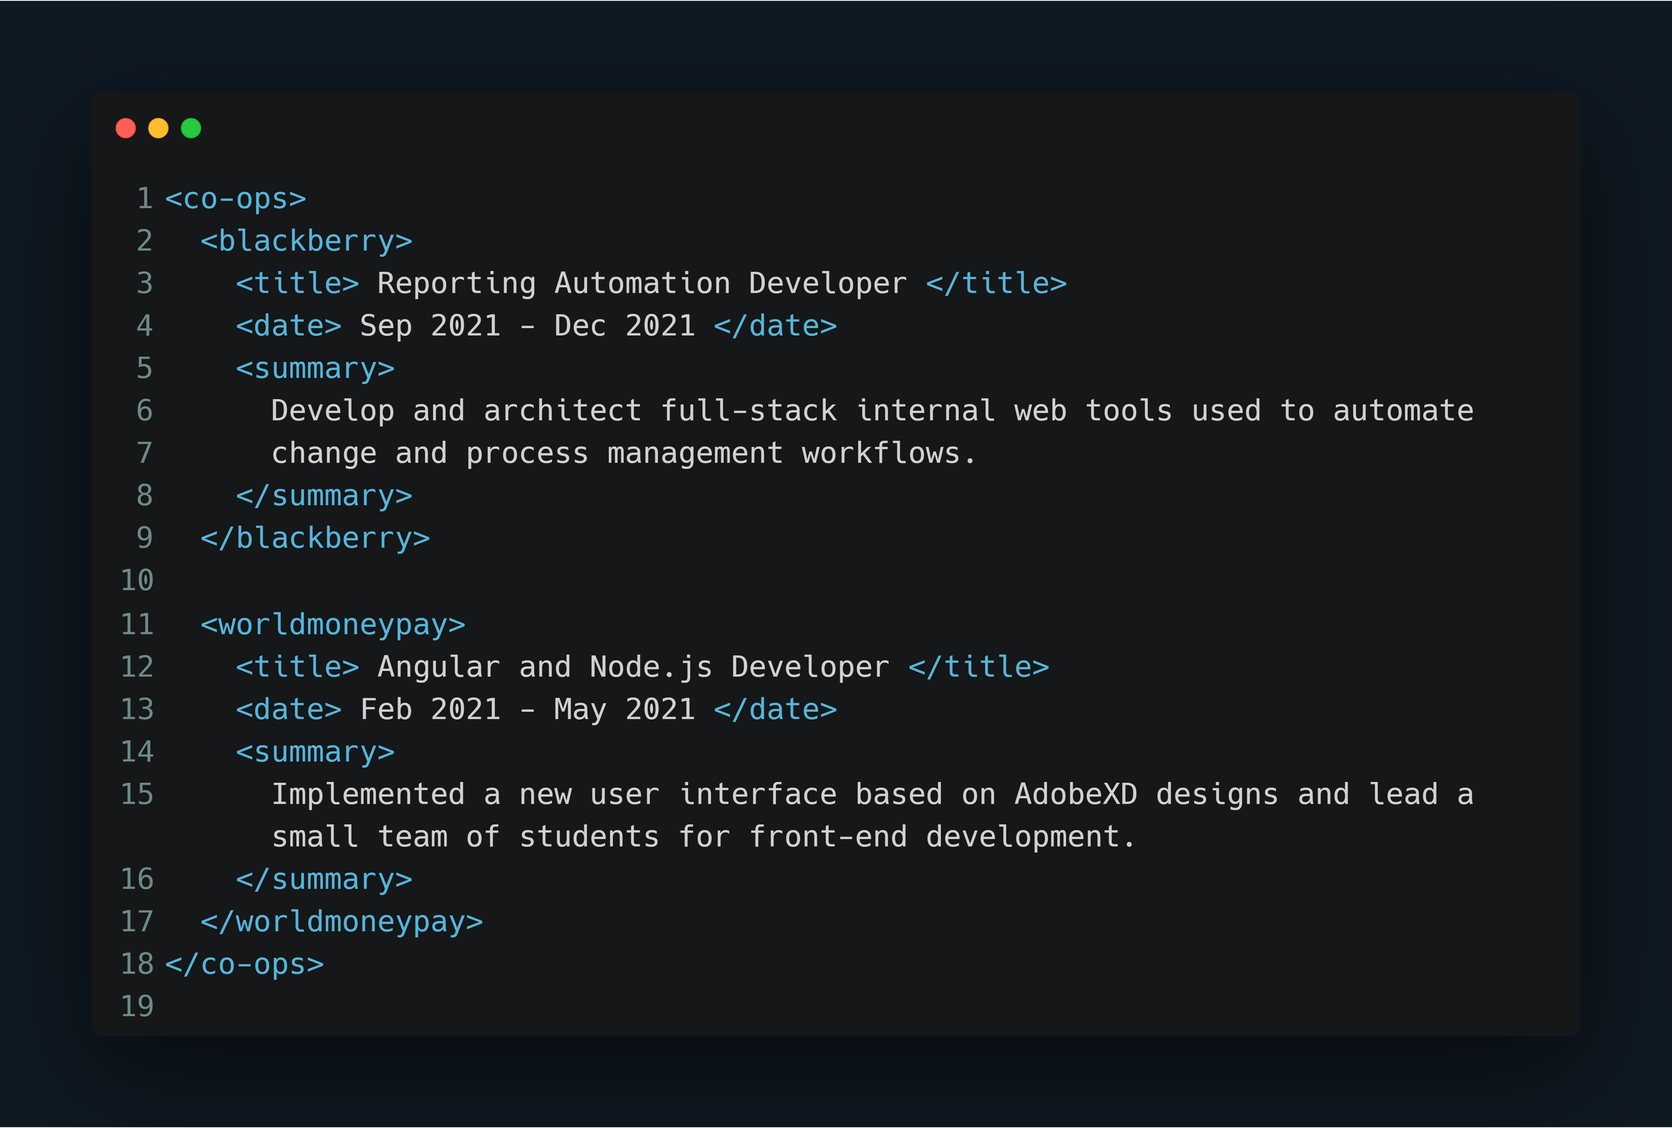
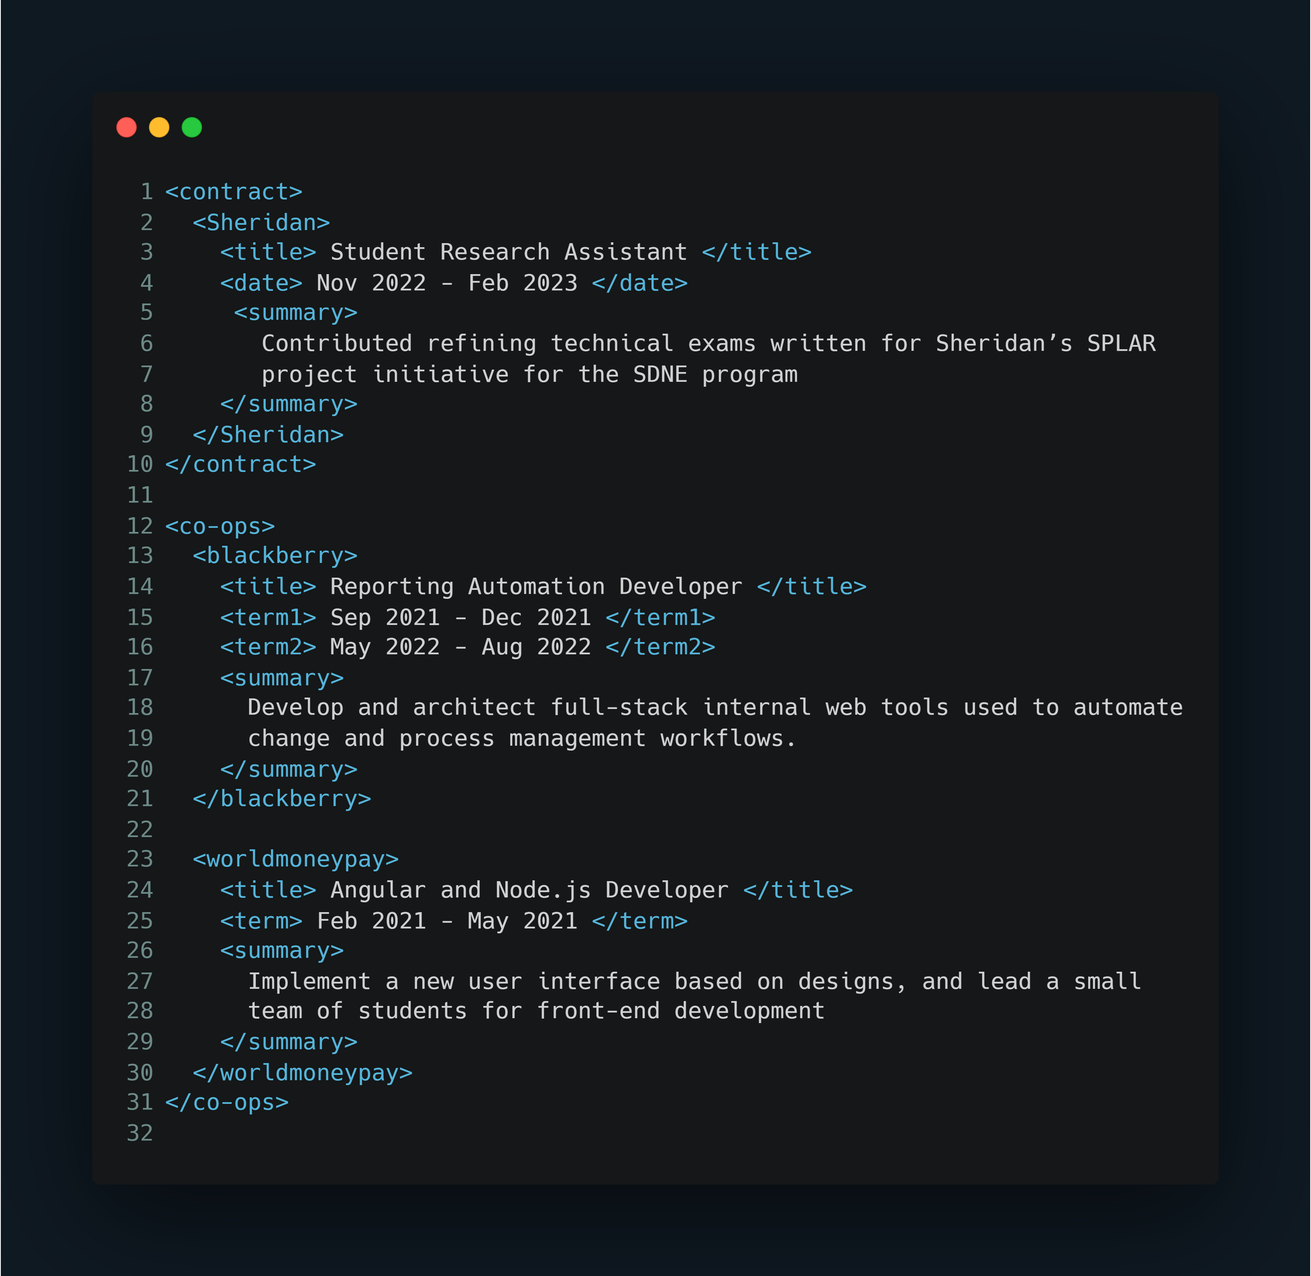
devpost on social bar, update experience, bug fix

diff --git a/index.html b/index.html
@@ -43,7 +43,7 @@ window.addEventListener('load', function() {
                     <a class="scroll" id="experience">Experience</a>
                     <a class="scroll" id="about">About</a>
                     <a class="scroll" id="contact">Contact</a>
-                    <a href="https://firebasestorage.googleapis.com/v0/b/auth-dev-ff796.appspot.com/o/files%2FouGePWcAQZMqy6DjSGzlQyq2ZZq2%2FNicolas_DeLuca_resume.docx?alt=media&token=d6b97201-c085-4764-ae88-4360cfa20cdf">Resume <i class="fa fa-download"></i></a>
+                    <a href="/resume.html">Resume <i class="fa fa-file-pdf-o"></i></a>
                 </div>
                 <a href="javascript:void(0);" class="icon" onclick="toggleNav()">
                     <i class="fa fa-bars"></i>
@@ -61,13 +61,23 @@ window.addEventListener('load', function() {
                 <i class="fa fa-square fa-stack-1x outside"></i>
                 <i class="fa fa-linkedin-square fa-stack-1x inside"></i>
             </a>
+ 
+            <a target="_blank" class="devpost" href="https://devpost.com/NickDeLu?ref_content=user-portfolio&ref_feature=portfolio&ref_medium=global-nav">
+                <i class="fa fa-square fa-stack-1x outside" style="z-index: -1;"></i>
+                <svg xmlns="http://www.w3.org/2000/svg" xmlns:xlink="http://www.w3.org/1999/xlink" version="1.1" id="Layer_1" x="0px" y="0px" viewBox="0 0 280.3 242" enable-background="new 0 0 280.3 242" xml:space="preserve">
+                    <g id="XMLID_1_">
+                        <path id="XMLID_6_" d="M133.7,76H118v90h14.7c30.9,0,45.1-18.1,45.1-45C177.8,90.9,164.9,76,133.7,76z"/>
+                        <path id="XMLID_9_" d="M210.2,0H70.1L0,121l70.1,121h140.1l70.1-121L210.2,0z M132.7,195H89V47h45.8c42.1,0,73.3,20.1,73.3,74   C208.1,172.8,170.6,195,132.7,195z"/>
+                    </g>
+                    </svg>
+            </a>
         </div>
         <section class="landing" id="top">
             <div id="particles-js">
                 <img class="landing-bg" src="/img/background.webp?v=2">
                 <div class="center-container" >
                     <div id="title">
-                        <h1 class="title">Nicolas <span style="white-space: nowrap;">De Luca</span></h1>
+                        <h1 class="title">Nicolas <span style="white-space: nowrap;font-family: Open Sans, sans-">De Luca</span></h1>
                         <h2 class="subtitle" style="box-shadow:unset;">Full Stack Developer</h2>
                     </div>
                     <div class="scroll cta" id="cta">Lets Connect</div>
@@ -311,11 +321,12 @@ window.addEventListener('load', function() {
                 <div class="div">&lt;/co-ops&gt;</div>
             </div> -->
             <div style="text-align:center;">
-            <!-- <iframe
-            src="https://carbon.now.sh/embed?bg=rgba%2815%2C25%2C34%2C1%29&t=seti&wt=none&l=auto&width=680&ds=true&dsyoff=20px&dsblur=68px&wc=true&wa=true&pv=56px&ph=56px&ln=true&fl=1&fm=Hack&fs=18px&lh=145%25&si=false&es=4x&wm=false&code=%253Cco-ops%253E%250A%2520%2520%253Cblackberry%253E%250A%2520%2520%2520%2520%253Ctitle%253E%2520Reporting%2520Automation%2520Developer%2520%253C%252Ftitle%253E%250A%2520%2520%2520%2520%253Cdate%253E%2520Sep%25202021%2520-%2520Dec%25202021%2520%253C%252Fdate%253E%250A%2520%2520%2520%2520%253Csummary%253E%250A%2520%2520%2520%2520%2520%2520Develop%2520and%2520architect%2520full-stack%2520internal%2520web%2520tools%2520used%2520to%2520automate%250A%2520%2520%2520%2520%2520%2520change%2520and%2520process%2520management%2520workflows.%250A%2520%2520%2520%2520%253C%252Fsummary%253E%250A%2520%2520%253C%252Fblackberry%253E%250A%250A%2520%2520%253Cworldmoneypay%253E%250A%2520%2520%2520%2520%253Ctitle%253E%2520Angular%2520and%2520Node.js%2520Developer%2520%253C%252Ftitle%253E%250A%2520%2520%2520%2520%253Cdate%253E%2520Feb%25202021%2520-%2520May%25202021%2520%253C%252Fdate%253E%250A%2520%2520%2520%2520%253Csummary%253E%250A%2520%2520%2520%2520%2520%2520Implemented%2520a%2520new%2520user%2520interface%2520based%2520on%2520AdobeXD%2520designs%2520and%2520lead%2520a%2520%2509%2509%2520%2520small%2520team%2520of%2520students%2520for%2520front-end%2520development.%250A%2520%2520%2520%2520%253C%252Fsummary%253E%250A%2520%2520%253C%252Fworldmoneypay%253E%250A%253C%252Fco-ops%253E%250A"
-            style="width: 1024px; height: 691px; border:0; transform: scale(1); overflow:hidden;"
-            sandbox="allow-scripts allow-same-origin">
-            </iframe> -->
+                <!-- <iframe
+                src="https://carbon.now.sh/embed?bg=rgba%2815%2C25%2C34%2C1%29&t=seti&wt=none&l=htmlmixed&width=680&ds=true&dsyoff=20px&dsblur=68px&wc=true&wa=true&pv=56px&ph=56px&ln=true&fl=1&fm=Hack&fs=14px&lh=133%25&si=false&es=2x&wm=false&code=%253Ccontract%253E%250A%2520%2520%253CSheridan%253E%250A%2520%2520%2520%2520%253Ctitle%253E%2520Student%2520Research%2520Assistant%2520%253C%252Ftitle%253E%250A%2520%2520%2520%2520%253Cdate%253E%2520Nov%25202022%2520-%2520Feb%25202023%2520%253C%252Fdate%253E%250A%2520%2520%2520%2520%2520%253Csummary%253E%250A%2520%2520%2520%2520%2520%2520%2520Contributed%2520refining%2520technical%2520exams%2520written%2520for%2520Sheridan%25E2%2580%2599s%2520SPLAR%2520%250A%2520%2520%2520%2520%2520%2520%2520project%2520initiative%2520for%2520the%2520SDNE%2520program%250A%2520%2520%2520%2520%253C%252Fsummary%253E%250A%2520%2520%253C%252FSheridan%253E%250A%253C%252Fcontract%253E%250A%250A%253Cco-ops%253E%250A%2520%2520%253Cblackberry%253E%250A%2520%2520%2520%2520%253Ctitle%253E%2520Reporting%2520Automation%2520Developer%2520%253C%252Ftitle%253E%250A%2520%2520%2520%2520%253Cterm1%253E%2520Sep%25202021%2520-%2520Dec%25202021%2520%253C%252Fterm1%253E%250A%2520%2520%2520%2520%253Cterm2%253E%2520May%25202022%2520-%2520Aug%25202022%2520%253C%252Fterm2%253E%250A%2520%2520%2520%2520%253Csummary%253E%250A%2520%2520%2520%2520%2520%2520Develop%2520and%2520architect%2520full-stack%2520internal%2520web%2520tools%2520used%2520to%2520automate%250A%2520%2520%2520%2520%2520%2520change%2520and%2520process%2520management%2520workflows.%250A%2520%2520%2520%2520%253C%252Fsummary%253E%250A%2520%2520%253C%252Fblackberry%253E%250A%2520%2520%250A%2520%2520%253Cworldmoneypay%253E%250A%2520%2520%2520%2520%253Ctitle%253E%2520Angular%2520and%2520Node.js%2520Developer%2520%253C%252Ftitle%253E%250A%2520%2520%2520%2520%253Cterm%253E%2520Feb%25202021%2520-%2520May%25202021%2520%253C%252Fterm%253E%250A%2520%2520%2520%2520%253Csummary%253E%250A%2520%2520%2520%2520%2520%2520Implement%2520a%2520new%2520user%2520interface%2520based%2520on%2520designs%252C%2520and%2520lead%2520a%2520small%2520%250A%2520%2520%2520%2520%2520%2520team%2520of%2520students%2520for%2520front-end%2520development%250A%2520%2520%2520%2520%253C%252Fsummary%253E%250A%2520%2520%253C%252Fworldmoneypay%253E%250A%253C%252Fco-ops%253E%250A"
+                style="width: 786px; height: 765px; border:0; transform: scale(1); overflow:hidden; width:100%;"
+                sandbox="allow-scripts allow-same-origin">
+              </iframe> -->
+
             <img src="/img/experience.png" style="width:100%; max-width: 1300px;">
             </div>
 
@@ -327,7 +338,7 @@ window.addEventListener('load', function() {
             <div class="aboutme">
                 <div class="div">&lt;dev&gt;</div>
                     <div class="indent">
-                        <div class="div">&lt;name&gt; <i style="color:white;">Nick De Luca</i> &lt;/name&gt;</div><br>
+                        <div class="div">&lt;name&gt; <i style="color:white;">Nicolas De Luca</i> &lt;/name&gt;</div><br>
                         <div class="div">&lt;edu&gt; <i style="color:white;">Sheridan College</i> &lt;/edu&gt;</div><br>
                         <div class="div">&lt;intro&gt;</div>
                         <div class="div indent"><div style="color:white;">Hi! My name is Nick. I'm a full stack developer and I am the type of programmer that is addicted to those "ahaaa" moments when you click run and it works!</div></div>

diff --git a/js/index.js b/js/index.js
@@ -1,1 +1,77 @@
-function toggleNav(){var e=document.getElementById("myTopnav");e.classList.contains("responsive")?e.classList.remove("responsive"):e.className+=" responsive"}window.addEventListener("DOMContentLoaded",e=>{var o=!1;$(".container").on("scroll",function(){1e3<=document.getElementsByClassName("container")[0].scrollTop&&!o&&(o=!0,$("#myTopnav").addClass("scroll-nav")),document.getElementsByClassName("container")[0].scrollTop<1e3&&o&&(o=!1,console.log("ey"),$("#myTopnav").removeClass("scroll-nav"))}),$("#maleglow").fadeOut(),$("#femaleglow").fadeOut();var t=$("#plug").detach(),n=document.getElementById("myTopnav"),a=document.getElementsByClassName("scroll");for(i=0;i<a.length;i++){var l=a[i];l.classList.contains("cta")&&$(".cta").on("click",()=>{$("#plug-place").after(t),setTimeout(function(){document.querySelector(".show-plug").scrollIntoView({behavior:"smooth"})},0),setTimeout(function(){$("#male").animate({left:"+=68",bottom:"+=68",opacity:1},800),$("#female").animate({right:"+=71",top:"+=68",opacity:1},800,function(){$("#maleglow").fadeIn(300),$("#femaleglow").fadeIn(300),$("#male").animate({opacity:0},1e3),$("#female").animate({opacity:0},1e3)})},600),setTimeout(function(){document.querySelector(".contact").scrollIntoView({behavior:"smooth"})},2e3),setTimeout(function(){$("#female").removeAttr("style"),$("#male").removeAttr("style"),$("#maleglow").fadeOut(300),$("#femaleglow").fadeOut(300),$("#plug").detach()},3e3),n.classList.remove("responsive")}),$("#logo").on("click",function(){document.querySelector(".landing").scrollIntoView({behavior:"smooth"})}),l.addEventListener("click",function(e){document.querySelector("."+e.target.id).scrollIntoView({behavior:"smooth"}),n.classList.remove("responsive")})}}),$(function(){});
+function toggleNav() {
+    var e = document.getElementById("myTopnav");
+    e.classList.contains("responsive")
+        ? e.classList.remove("responsive")
+        : (e.className += " responsive");
+}
+window.addEventListener("DOMContentLoaded", (e) => {
+    var o = !1;
+    $(".container").on("scroll", function () {
+        1e3 <= document.getElementsByClassName("container")[0].scrollTop &&
+            !o &&
+            ((o = !0), $("#myTopnav").addClass("scroll-nav")),
+            document.getElementsByClassName("container")[0].scrollTop < 1e3 &&
+            o &&
+            ((o = !1), console.log("ey"), $("#myTopnav").removeClass("scroll-nav"));
+    }),
+        $("#maleglow").fadeOut(),
+        $("#femaleglow").fadeOut();
+    var t = $("#plug").detach(),
+        n = document.getElementById("myTopnav"),
+        a = document.getElementsByClassName("scroll");
+    for (i = 0; i < a.length; i++) {
+        var l = a[i];
+        l.classList.contains("cta") &&
+            $(".cta").on("click", () => {
+                $("#container").css("scroll-snap-type", "y mandatory")
+                $("#plug-place").after(t),
+                    setTimeout(function () {
+                        document
+                            .querySelector(".show-plug")
+                            .scrollIntoView({ behavior: "smooth" });
+                    }, 0),
+                    setTimeout(function () {
+                        $("#male").animate(
+                            { left: "+=68", bottom: "+=68", opacity: 1 },
+                            800
+                        ),
+                            $("#female").animate(
+                                { right: "+=71", top: "+=68", opacity: 1 },
+                                800,
+                                function () {
+                                    $("#maleglow").fadeIn(300),
+                                        $("#femaleglow").fadeIn(300),
+                                        $("#male").animate({ opacity: 0 }, 1e3),
+                                        $("#female").animate({ opacity: 0 }, 1e3);
+                                }
+                            );
+                    }, 600),
+                    setTimeout(function () {
+                        document
+                            .querySelector(".contact")
+                            .scrollIntoView({ behavior: "smooth" });
+                        $("#container").css("scroll-snap-type", "unset")
+                    }, 2e3),
+                    setTimeout(function () {
+                        $("#female").removeAttr("style"),
+                            $("#male").removeAttr("style"),
+                            $("#maleglow").fadeOut(300),
+                            $("#femaleglow").fadeOut(300),
+                            $("#plug").detach();
+                    }, 3e3),
+                    n.classList.remove("responsive");
+            }),
+            $("#logo").on("click", function () {
+                document
+                    .querySelector(".landing")
+                    .scrollIntoView({ behavior: "smooth" });
+            }),
+            l.addEventListener("click", function (e) {
+                document
+                    .querySelector("." + e.target.id)
+                    .scrollIntoView({ behavior: "smooth" }),
+                    n.classList.remove("responsive");
+            });
+    }
+}),
+    $(function () { });

diff --git a/resume.html b/resume.html
@@ -1,0 +1,58 @@
+<!DOCTYPE html>
+<html lang="en">
+<head>
+    <meta charset="UTF-8">
+    <meta http-equiv="X-UA-Compatible" content="IE=edge">
+    <meta name="viewport" content="width=device-width, initial-scale=1.0">
+    <link rel="stylesheet" href="./css/styles.css?v=1">
+    <link rel="icon" type="image/x-icon" href="/img/favicon.ico">
+    <link rel="stylesheet" href="https://cdnjs.cloudflare.com/ajax/libs/font-awesome/4.7.0/css/font-awesome.min.css">
+    <title>Resume</title>
+</head>
+<body>
+    <div id="container" class="container">
+        <header>
+
+            <nav class="topnav" id="myTopnav">
+                <img id="logo" class ="logo" src="img/Logo.PNG" onclick="window.history.back(); return false;">
+                <div class='nav-container'>
+                    <a class="scroll" href="#" onclick="window.history.back(); return false;"> <i class="fa fa-arrow-left"></i> &nbsp;Back</a>
+
+                </div>
+                <a href="javascript:void(0);" class="icon" onclick="toggleNav()">
+                    <i class="fa fa-bars"></i>
+                </a>
+                
+            </nav>
+        </header>
+        <div class="socialbar">
+            <a target="_blank" class="github" href="https://github.com/NickDeLu">
+                <i class="fa fa-square fa-stack-1x outside"></i>
+                <i class="fa fa-github-square fa-stack-1x inside"></i>
+            </a>
+            <a target="_blank" class="linkedin" href="https://www.linkedin.com/in/nickdelu/">
+                <i class="fa fa-square fa-stack-1x outside"></i>
+                <i class="fa fa-linkedin-square fa-stack-1x inside"></i>
+            </a>
+ 
+            <a target="_blank" class="devpost" href="https://devpost.com/NickDeLu?ref_content=user-portfolio&ref_feature=portfolio&ref_medium=global-nav">
+                <i class="fa fa-square fa-stack-1x outside" style="z-index: -1;"></i>
+                <svg xmlns="http://www.w3.org/2000/svg" xmlns:xlink="http://www.w3.org/1999/xlink" version="1.1" id="Layer_1" x="0px" y="0px" viewBox="0 0 280.3 242" enable-background="new 0 0 280.3 242" xml:space="preserve">
+                    <g id="XMLID_1_">
+                        <path id="XMLID_6_" d="M133.7,76H118v90h14.7c30.9,0,45.1-18.1,45.1-45C177.8,90.9,164.9,76,133.7,76z"/>
+                        <path id="XMLID_9_" d="M210.2,0H70.1L0,121l70.1,121h140.1l70.1-121L210.2,0z M132.7,195H89V47h45.8c42.1,0,73.3,20.1,73.3,74   C208.1,172.8,170.6,195,132.7,195z"/>
+                    </g>
+                    </svg>
+            </a>
+        </div>
+    <section style="width: 100%; max-width:900px; margin: 100px auto;">
+        <iframe
+          src="http://drive.google.com/file/d/1UMKvlKUnLSJywsXKal7lfaytEcsR6477/preview"
+          width="100%"
+          height="1100px"
+        >
+        </iframe>
+    </section>
+</div>
+</body>
+</html>

diff --git a/css/styles.css b/css/styles.css
@@ -35,6 +35,7 @@ body {
   width: 100vw;
   height: 100vh;
   overflow-y: scroll;
+  scroll-behavior: smooth;
 }
 button {
   outline: 0;
@@ -124,7 +125,7 @@ footer {
 }
 .socialbar {
   width: 50px;
-  height: 140px;
+  height: 200px;
   font-size: 40px;
   position: absolute;
   top: 60%;
@@ -133,11 +134,13 @@ footer {
   cursor: pointer;
 }
 
-.socialbar i.inside::before{
+.socialbar i.inside::before, .socialbar svg{
 
    filter: drop-shadow(-3px 3px 1px rgba(0,0,0,.5));
 }
-
+.fa{
+  transition: all 0.3s;
+}
 .card-header {
   text-align: center;
 }
@@ -145,6 +148,22 @@ footer {
   font-size: 70px;
   color: #000;
   transform: scale(1.1);
+}
+.devpost svg{
+  width:61px;
+  fill:#003e54;
+}
+.devpost svg:hover{
+  fill:#d2f0f6;
+}
+.devpost .fa-stack-1x{
+  z-index: -1;
+  font-size: 44px!important;
+  top: 7px;
+  margin-left: 5px;
+}
+.devpost:hover .fa-stack-1x {
+  color: #003e54;
 }
 .linkedin .inside {
   font-size: 70px;
@@ -154,12 +173,15 @@ footer {
 .linkedin .fa-stack-1x {
   bottom: 0;
 }
+.github .fa-stack-1x {
+  bottom: 36%;
+}
 .socialbar a .outside {
   font-size: 70px;
   color: #fff;
 }
 .socialbar a:hover .inside {
-  color: #fff;
+  color: #d2f0f6;
 }
 .linkedin:hover .outside {
   color: #1b3764;
@@ -226,10 +248,10 @@ box-shadow: -3px 3px 15px #282e3a;
 .cta:hover,
 .form input[type="submit"]:hover,
 .link:hover {
-  background-color: #fff;
-  color: #00c9b7;
+  background-color: #d2f0f6;
+  color: #53b2d7;
   text-shadow: none;
-  transform: translateY(-2px);
+  transform: translateY(-1px);
   box-shadow: -3px 3px 15px #282e3a;
 }
 .landing {
@@ -422,10 +444,9 @@ canvas {
 }
 .cta,
 .form input[type="submit"] {
-  text-shadow: -1px 1px 5px #000;
-  background-color: #3fc5dd;
+  background-color: #53b2d7;
   color: #fff;
-  border-radius: 25px;
+  border-radius: 35px;
   padding: 20px;
   width: fit-content;
   margin: 50px auto;
@@ -488,7 +509,7 @@ canvas {
 }
 .div, .about{
   font-size: 30px;
-  color: #569cd6;
+  color: #53b2d7;
   font-family: "Courier New", Courier, monospace;
 }
 .indent {

diff --git a/projects/ollieai.html b/projects/ollieai.html
@@ -95,6 +95,16 @@
                 <i class="fa fa-square fa-stack-1x outside"></i>
                 <i class="fa fa-linkedin-square fa-stack-1x inside"></i>
             </a>
+ 
+            <a target="_blank" class="devpost" href="https://devpost.com/NickDeLu?ref_content=user-portfolio&ref_feature=portfolio&ref_medium=global-nav">
+                <i class="fa fa-square fa-stack-1x outside" style="z-index: -1;"></i>
+                <svg xmlns="http://www.w3.org/2000/svg" xmlns:xlink="http://www.w3.org/1999/xlink" version="1.1" id="Layer_1" x="0px" y="0px" viewBox="0 0 280.3 242" enable-background="new 0 0 280.3 242" xml:space="preserve">
+                    <g id="XMLID_1_">
+                        <path id="XMLID_6_" d="M133.7,76H118v90h14.7c30.9,0,45.1-18.1,45.1-45C177.8,90.9,164.9,76,133.7,76z"/>
+                        <path id="XMLID_9_" d="M210.2,0H70.1L0,121l70.1,121h140.1l70.1-121L210.2,0z M132.7,195H89V47h45.8c42.1,0,73.3,20.1,73.3,74   C208.1,172.8,170.6,195,132.7,195z"/>
+                    </g>
+                    </svg>
+            </a>
         </div>
         <section class="grid-container">
             <div class="grid-item " style="padding: 0; margin:0;">

diff --git a/projects/ecommerce-backend-api.html b/projects/ecommerce-backend-api.html
@@ -95,6 +95,16 @@
                 <i class="fa fa-square fa-stack-1x outside"></i>
                 <i class="fa fa-linkedin-square fa-stack-1x inside"></i>
             </a>
+ 
+            <a target="_blank" class="devpost" href="https://devpost.com/NickDeLu?ref_content=user-portfolio&ref_feature=portfolio&ref_medium=global-nav">
+                <i class="fa fa-square fa-stack-1x outside" style="z-index: -1;"></i>
+                <svg xmlns="http://www.w3.org/2000/svg" xmlns:xlink="http://www.w3.org/1999/xlink" version="1.1" id="Layer_1" x="0px" y="0px" viewBox="0 0 280.3 242" enable-background="new 0 0 280.3 242" xml:space="preserve">
+                    <g id="XMLID_1_">
+                        <path id="XMLID_6_" d="M133.7,76H118v90h14.7c30.9,0,45.1-18.1,45.1-45C177.8,90.9,164.9,76,133.7,76z"/>
+                        <path id="XMLID_9_" d="M210.2,0H70.1L0,121l70.1,121h140.1l70.1-121L210.2,0z M132.7,195H89V47h45.8c42.1,0,73.3,20.1,73.3,74   C208.1,172.8,170.6,195,132.7,195z"/>
+                    </g>
+                    </svg>
+            </a>
         </div>
         <section class="">
             <div class="grid-container">

diff --git a/projects/quixercise.html b/projects/quixercise.html
@@ -95,6 +95,16 @@
                 <i class="fa fa-square fa-stack-1x outside"></i>
                 <i class="fa fa-linkedin-square fa-stack-1x inside"></i>
             </a>
+ 
+            <a target="_blank" class="devpost" href="https://devpost.com/NickDeLu?ref_content=user-portfolio&ref_feature=portfolio&ref_medium=global-nav">
+                <i class="fa fa-square fa-stack-1x outside" style="z-index: -1;"></i>
+                <svg xmlns="http://www.w3.org/2000/svg" xmlns:xlink="http://www.w3.org/1999/xlink" version="1.1" id="Layer_1" x="0px" y="0px" viewBox="0 0 280.3 242" enable-background="new 0 0 280.3 242" xml:space="preserve">
+                    <g id="XMLID_1_">
+                        <path id="XMLID_6_" d="M133.7,76H118v90h14.7c30.9,0,45.1-18.1,45.1-45C177.8,90.9,164.9,76,133.7,76z"/>
+                        <path id="XMLID_9_" d="M210.2,0H70.1L0,121l70.1,121h140.1l70.1-121L210.2,0z M132.7,195H89V47h45.8c42.1,0,73.3,20.1,73.3,74   C208.1,172.8,170.6,195,132.7,195z"/>
+                    </g>
+                    </svg>
+            </a>
         </div>
         <section class="">
             <div class="grid-container">

diff --git a/projects/thefoodchain.html b/projects/thefoodchain.html
@@ -95,6 +95,16 @@
                 <i class="fa fa-square fa-stack-1x outside"></i>
                 <i class="fa fa-linkedin-square fa-stack-1x inside"></i>
             </a>
+ 
+            <a target="_blank" class="devpost" href="https://devpost.com/NickDeLu?ref_content=user-portfolio&ref_feature=portfolio&ref_medium=global-nav">
+                <i class="fa fa-square fa-stack-1x outside" style="z-index: -1;"></i>
+                <svg xmlns="http://www.w3.org/2000/svg" xmlns:xlink="http://www.w3.org/1999/xlink" version="1.1" id="Layer_1" x="0px" y="0px" viewBox="0 0 280.3 242" enable-background="new 0 0 280.3 242" xml:space="preserve">
+                    <g id="XMLID_1_">
+                        <path id="XMLID_6_" d="M133.7,76H118v90h14.7c30.9,0,45.1-18.1,45.1-45C177.8,90.9,164.9,76,133.7,76z"/>
+                        <path id="XMLID_9_" d="M210.2,0H70.1L0,121l70.1,121h140.1l70.1-121L210.2,0z M132.7,195H89V47h45.8c42.1,0,73.3,20.1,73.3,74   C208.1,172.8,170.6,195,132.7,195z"/>
+                    </g>
+                    </svg>
+            </a>
         </div>
         <section class="">
             <div class="grid-container">
